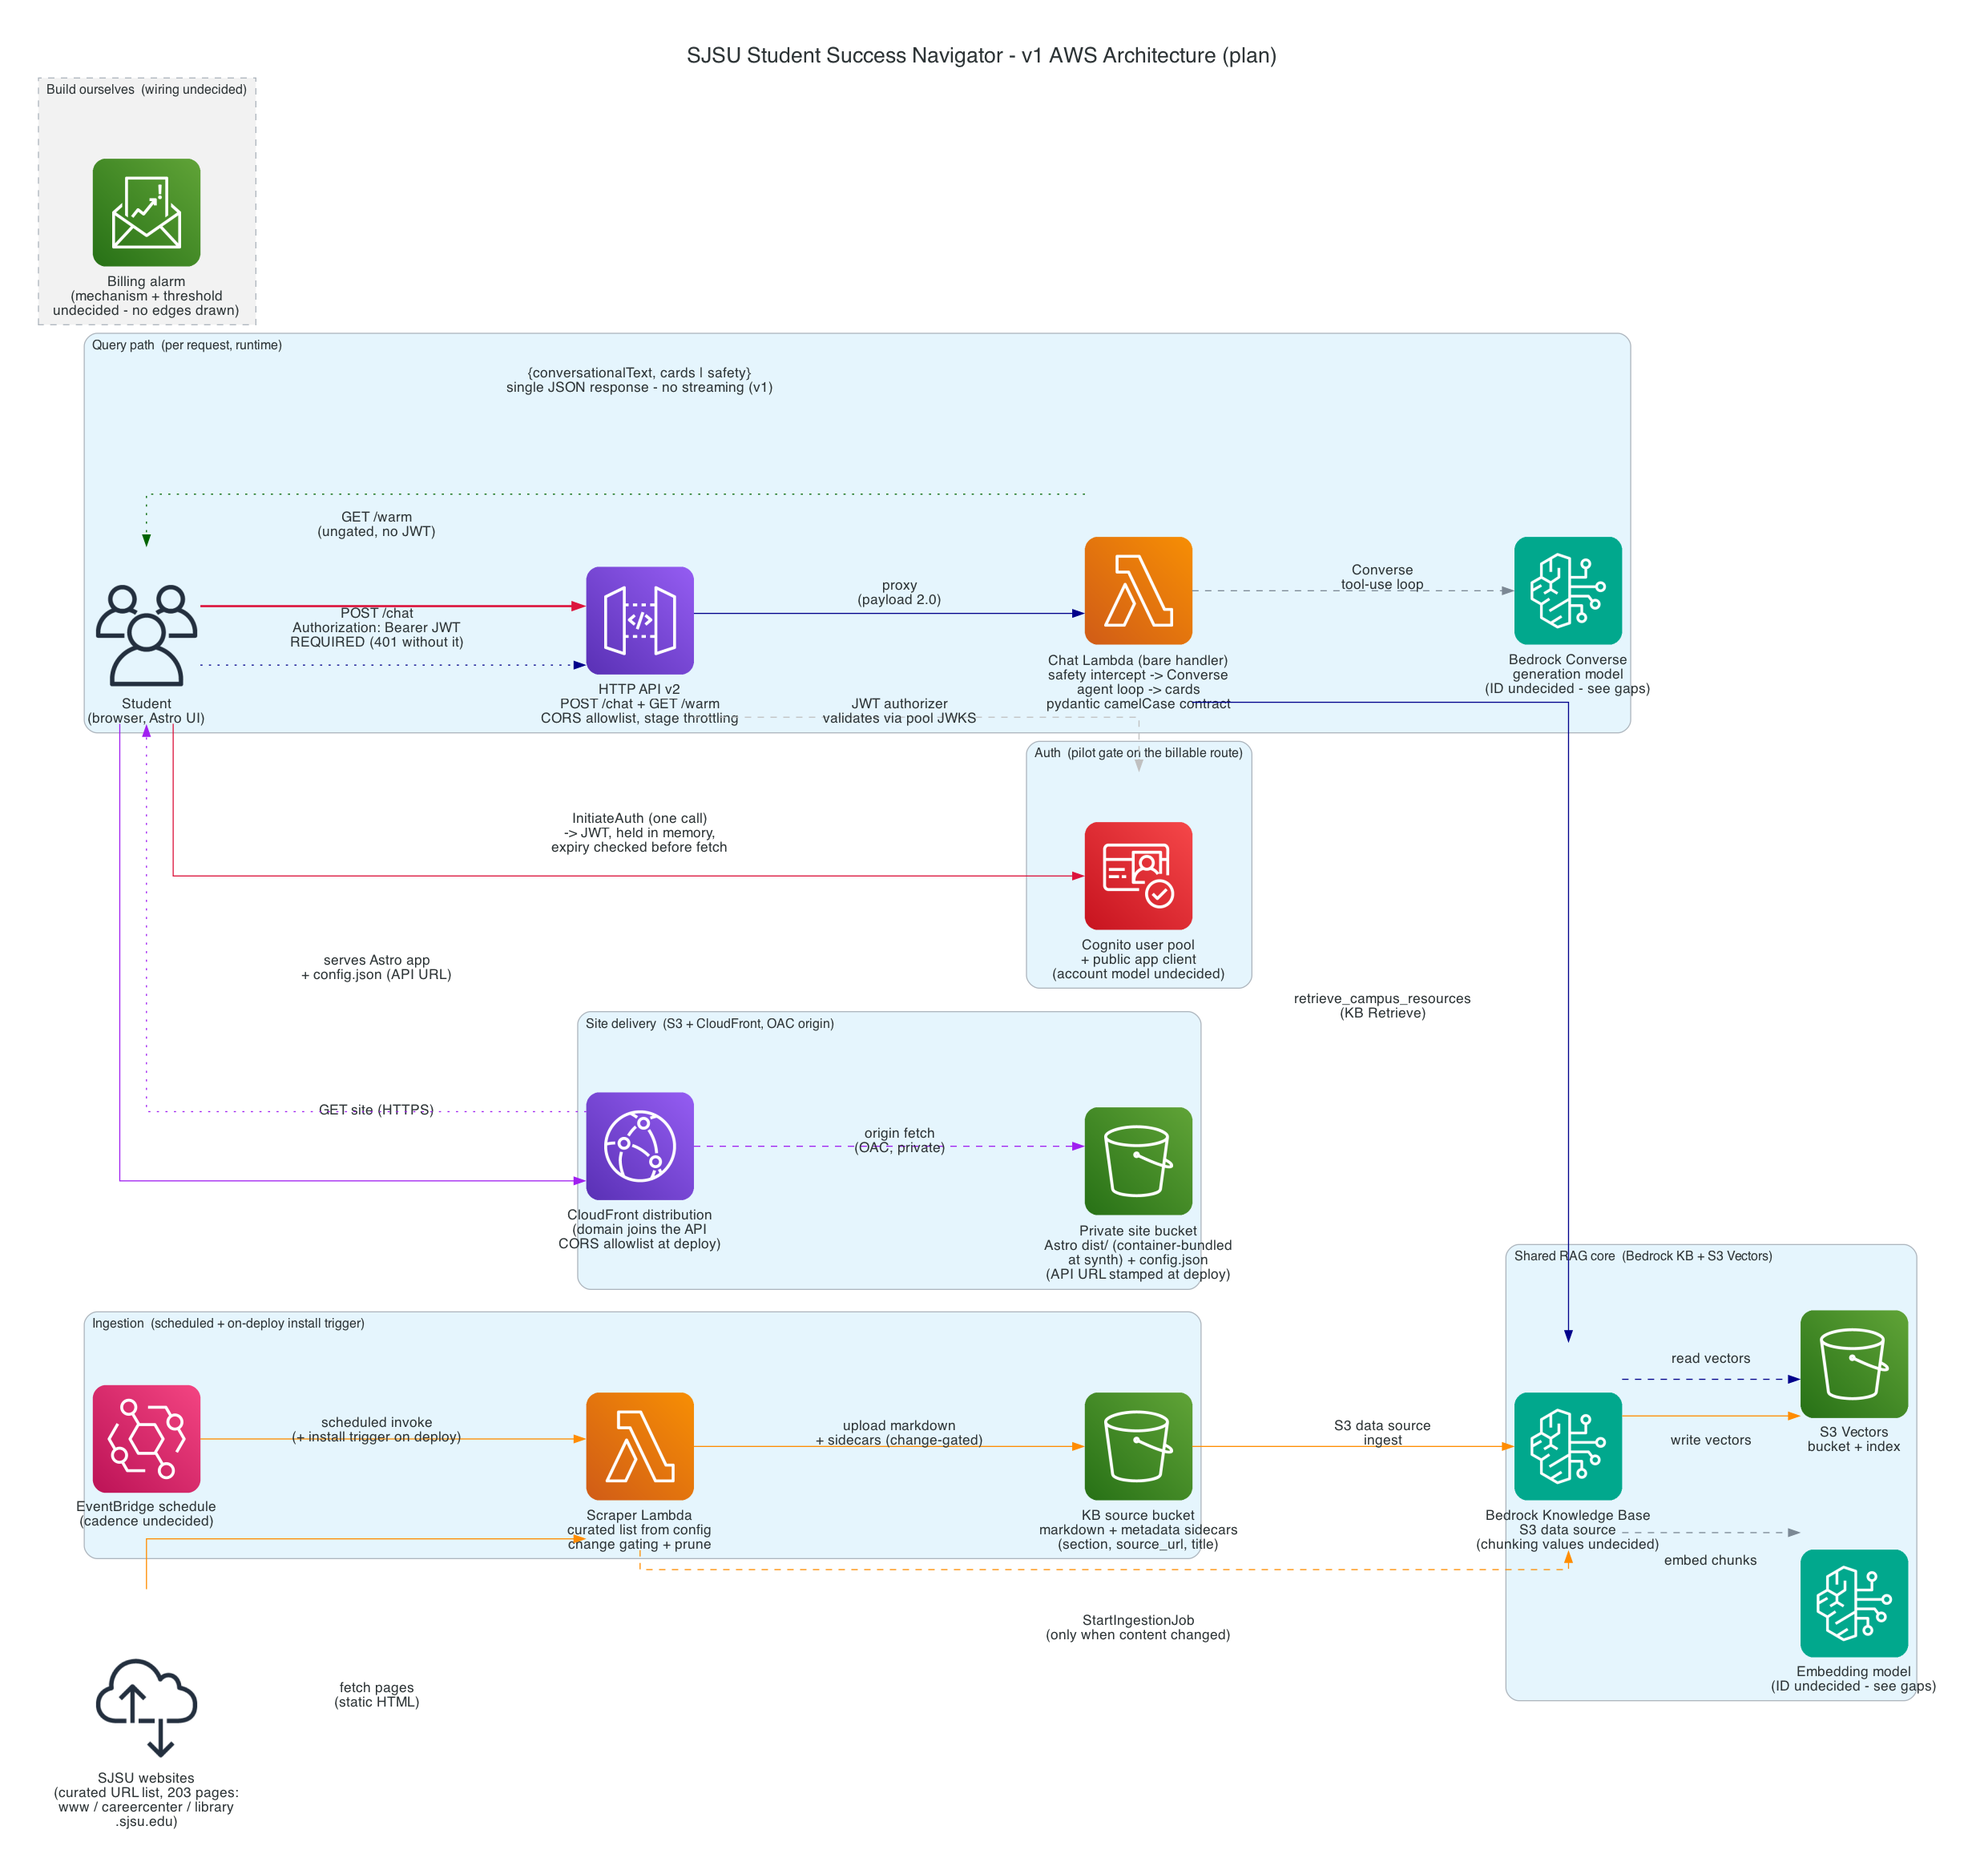
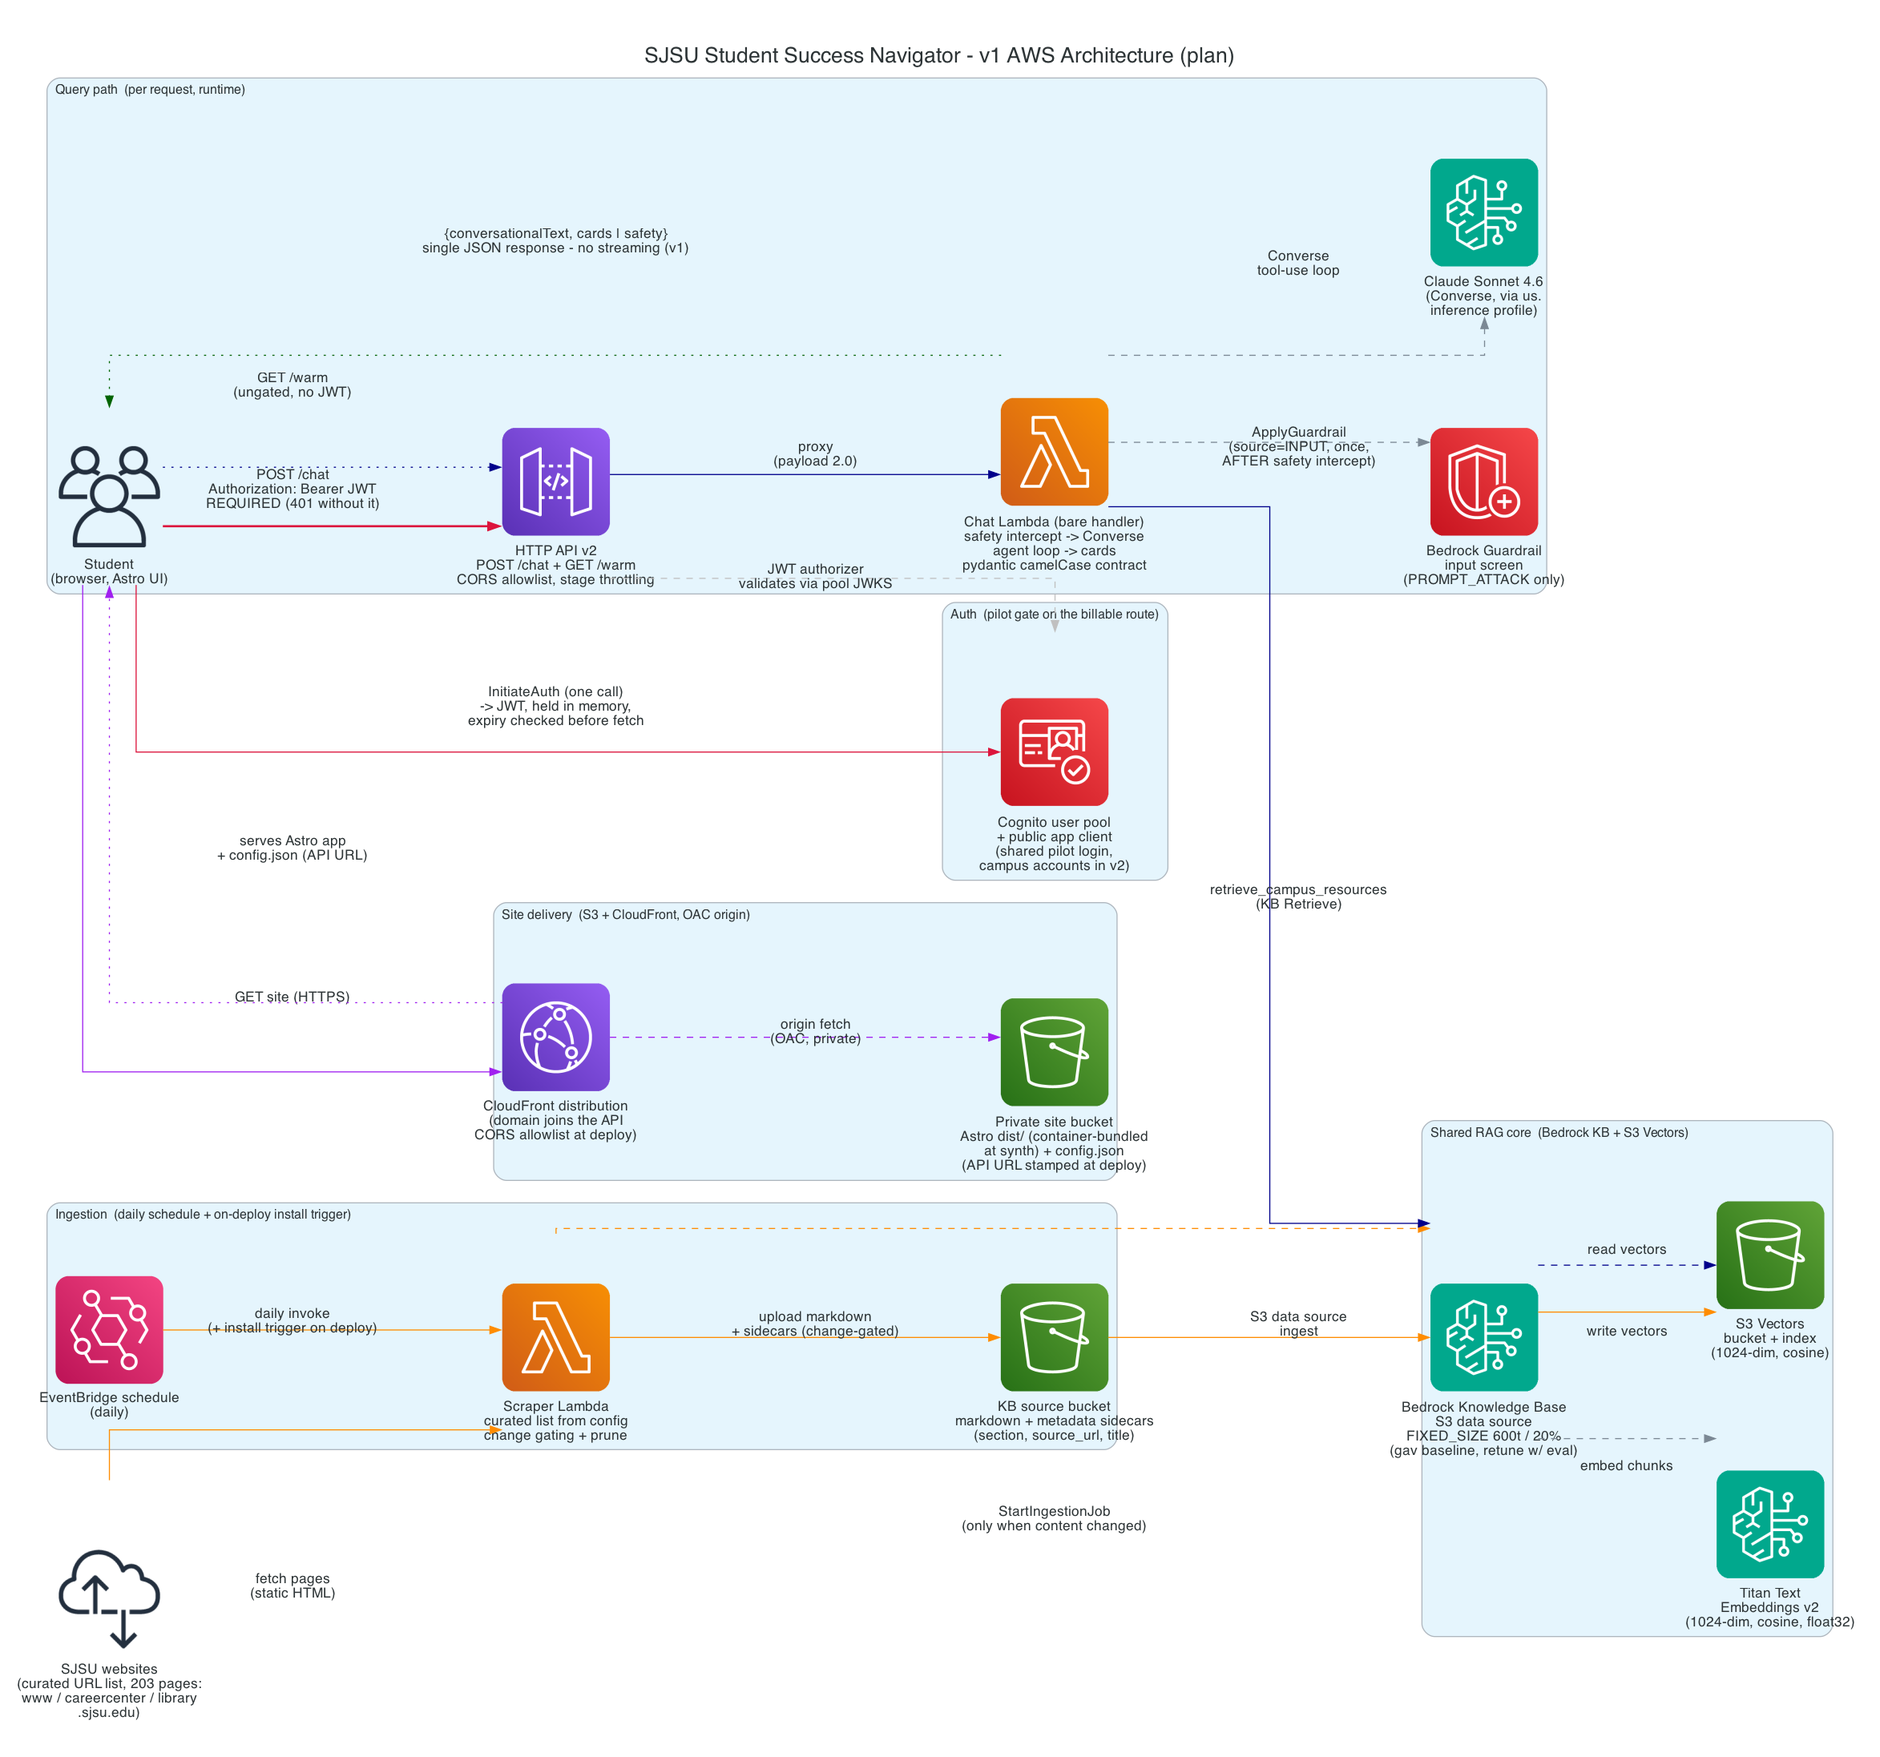
docs(plan): resolve diagram gaps with gav-referenced decisions

diff --git a/docs/architecture-v1.py b/docs/architecture-v1.py
@@ -15,53 +15,45 @@ is no code yet. It exists to make the cross-project wiring reviewable: v1 is
 assembled by pulling sections out of the gav lib CDK project and the camp
 application, so the risk sits in the seams, not the components.
 
-Decisions reflected:
+Decisions reflected (the former gaps are resolved in docs/synthesis.md under
+"Decisions (2026-08-05)", with gav lib as the reference where the plan was silent):
   - v1 is authenticated. Cognito with a single InitiateAuth call replaces Google
     OAuth; a native JWT authorizer guards POST /chat, the one billable route.
-    GET /warm stays ungated (it spends no Bedrock tokens).
+    GET /warm stays ungated (it spends no Bedrock tokens). v1 ships gav's shared
+    username/password pilot login; campus-affiliated accounts are v2.
   - The chat Lambda is a bare handler - no FastAPI, no Mangum. The camp services
     (safety intercept, Converse agent loop, card parsing) move in as files;
     pydantic aliases carry the camelCase wire contract.
+  - Generation is Claude Sonnet 4.6 on Bedrock Converse via the us. cross-region
+    inference profile; embeddings are Titan Text Embeddings v2 (1024-dim, cosine,
+    float32); chunking starts at gav's FIXED_SIZE 600 tokens / 20% overlap,
+    retuned with the eval once an account exists.
+  - Gav's single PROMPT_ATTACK input guardrail is adopted. Ordering is
+    load-bearing: the deterministic safety intercept runs first, then
+    ApplyGuardrail(source=INPUT), then the Converse loop - crisis handling can
+    never be pre-empted by a guardrail block.
   - Ingestion scrapes a curated URL list from config (203 pages in url-list.csv,
-    hosts www/careercenter/library.sjsu.edu), no recursive crawl. Metadata
-    sidecars carry section alongside source_url and title.
+    hosts www/careercenter/library.sjsu.edu) on a single DAILY EventBridge
+    schedule, no tiers, plus the on-deploy install trigger. Metadata sidecars
+    carry section alongside source_url and title. Cost-checked in build-plan.md
+    (~$0.15/month all-in at daily cadence, change-gated).
   - No response streaming in v1: one JSON response per question.
   - Frontend is static Astro on S3 behind CloudFront (OAC). CDK bundles it in a
     container at synth; config.json is stamped with the API URL at deploy time,
     and the distribution domain joins the API's CORS allowlist.
-
-GAPS - ambiguities the plan documents do not resolve. Where one of these blocks
-an edge or a label, the diagram carries "undecided" rather than a guess:
-  1. Generation model ID is pinned nowhere in this repo's docs (camp defaulted to
-     us.anthropic.claude-sonnet-4-6; no decision is recorded here). Drawn generic.
-  2. Embedding model ID and vector dimension are unnamed ("kb: s3 vectors +
-     embedding model"), and chunking values are "ours" but unchosen. Drawn generic.
-  3. Guardrail: the plan is silent on whether gav lib's PROMPT_ATTACK input
-     guardrail comes along with the pulled lambda section or is stripped. Not
-     drawn; needs a decision (gav's lambda IAM carries ApplyGuardrail).
-  4. Scraper schedule shape: gav has fast/full tiers; our docs pull "schedules"
-     with no cadence or tier decision for the 203-URL list. One schedule drawn,
-     cadence unlabeled.
-  5. Billing alarm wiring: mechanism (AWS Budgets vs CloudWatch) and threshold
-     undecided. Node drawn with no edges.
-  6. Cognito account model: synthesis says "auth to campus-affiliated users";
-     gav's template is one shared demo login. Provisioning undecided; the pool is
-     drawn, the account model is not.
-  7. Domain count: the task brief says two domains; url-list.csv contains three
-     hosts (www.sjsu.edu 177, careercenter.sjsu.edu 21, library.sjsu.edu 5).
-     Drawn from the CSV.
+  - No billing alarm in v1 (deferred to v2); stage throttling and the Cognito
+    gate are the v1 cost controls.
 """
 
 import os
 
 from diagrams import Cluster, Diagram, Edge
 from diagrams.aws.compute import Lambda
-from diagrams.aws.cost import Budgets
 from diagrams.aws.general import InternetAlt1, Users
 from diagrams.aws.integration import Eventbridge
 from diagrams.aws.ml import Bedrock
 from diagrams.aws.network import APIGateway, CloudFront
-from diagrams.aws.security import Cognito
+from diagrams.aws.security import Cognito, Shield
 from diagrams.aws.storage import S3
 
 # Write the PNG next to this file (docs/) regardless of the current working directory.
@@ -82,8 +74,8 @@ with Diagram(
         "SJSU websites\n(curated URL list, 203 pages:\nwww / careercenter / library\n.sjsu.edu)"
     )
 
-    with Cluster("Ingestion  (scheduled + on-deploy install trigger)"):
-        schedule = Eventbridge("EventBridge schedule\n(cadence undecided)")
+    with Cluster("Ingestion  (daily schedule + on-deploy install trigger)"):
+        schedule = Eventbridge("EventBridge schedule\n(daily)")
         scraper = Lambda("Scraper Lambda\ncurated list from config\nchange gating + prune")
         source_bucket = S3(
             "KB source bucket\nmarkdown + metadata sidecars\n(section, source_url, title)"
@@ -91,12 +83,16 @@ with Diagram(
 
     # The KB + vector store are the hub shared by both flows.
     with Cluster("Shared RAG core  (Bedrock KB + S3 Vectors)"):
-        kb = Bedrock("Bedrock Knowledge Base\nS3 data source\n(chunking values undecided)")
-        embed = Bedrock("Embedding model\n(ID undecided - see gaps)")
-        vectors = S3("S3 Vectors\nbucket + index")
+        kb = Bedrock(
+            "Bedrock Knowledge Base\nS3 data source\nFIXED_SIZE 600t / 20%\n(gav baseline, retune w/ eval)"
+        )
+        embed = Bedrock("Titan Text\nEmbeddings v2\n(1024-dim, cosine, float32)")
+        vectors = S3("S3 Vectors\nbucket + index\n(1024-dim, cosine)")
 
     with Cluster("Auth  (pilot gate on the billable route)"):
-        cognito = Cognito("Cognito user pool\n+ public app client\n(account model undecided)")
+        cognito = Cognito(
+            "Cognito user pool\n+ public app client\n(shared pilot login,\ncampus accounts in v2)"
+        )
 
     with Cluster("Query path  (per request, runtime)"):
         student = Users("Student\n(browser, Astro UI)")
@@ -106,7 +102,12 @@ with Diagram(
         chat_fn = Lambda(
             "Chat Lambda (bare handler)\nsafety intercept -> Converse\nagent loop -> cards\npydantic camelCase contract"
         )
-        model = Bedrock("Bedrock Converse\ngeneration model\n(ID undecided - see gaps)")
+        guardrail = Shield(
+            "Bedrock Guardrail\ninput screen\n(PROMPT_ATTACK only)"
+        )
+        model = Bedrock(
+            "Claude Sonnet 4.6\n(Converse, via us.\ninference profile)"
+        )
 
     with Cluster("Site delivery  (S3 + CloudFront, OAC origin)"):
         cdn = CloudFront(
@@ -116,14 +117,8 @@ with Diagram(
             "Private site bucket\nAstro dist/ (container-bundled\nat synth) + config.json\n(API URL stamped at deploy)"
         )
 
-    with Cluster(
-        "Build ourselves  (wiring undecided)",
-        graph_attr={"style": "dashed", "bgcolor": "gray95"},
-    ):
-        billing = Budgets("Billing alarm\n(mechanism + threshold\nundecided - no edges drawn)")
-
     # --- Ingestion flow: schedule -> scrape -> S3 markdown -> KB ingest -> embed -> vectors ---
-    schedule >> Edge(color="darkorange", label="scheduled invoke\n(+ install trigger on deploy)") >> scraper
+    schedule >> Edge(color="darkorange", label="daily invoke\n(+ install trigger on deploy)") >> scraper
     sjsu_sites >> Edge(color="darkorange", label="fetch pages\n(static HTML)") >> scraper
     scraper >> Edge(color="darkorange", label="upload markdown\n+ sidecars (change-gated)") >> source_bucket
     scraper >> Edge(color="darkorange", style="dashed", label="StartIngestionJob\n(only when content changed)") >> kb
@@ -148,6 +143,11 @@ with Diagram(
     student >> Edge(color="darkblue", style="dotted", label="GET /warm\n(ungated, no JWT)") >> api
     api >> Edge(color="gray", style="dashed", label="JWT authorizer\nvalidates via pool JWKS") >> cognito
     api >> Edge(color="darkblue", label="proxy\n(payload 2.0)") >> chat_fn
+    # Ordering is load-bearing: safety intercept (in-Lambda, deterministic) runs FIRST,
+    # then the guardrail screens the bare query ONCE, then the Converse loop starts.
+    chat_fn >> Edge(
+        style="dashed", label="ApplyGuardrail\n(source=INPUT, once,\nAFTER safety intercept)"
+    ) >> guardrail
     chat_fn >> Edge(color="darkblue", label="retrieve_campus_resources\n(KB Retrieve)") >> kb
     kb >> Edge(color="darkblue", style="dashed", label="read vectors") >> vectors
     chat_fn >> Edge(style="dashed", dir="both", label="Converse\ntool-use loop") >> model

diff --git a/docs/build-plan.md b/docs/build-plan.md
@@ -14,7 +14,7 @@ L1 property values. Nothing pre-flights those without an account.
 
 - [ ] pull gav config skeleton and synth validators, renamed with no hardcoded global names
 - [ ] pull gav kb section, repointed at our source bucket and chunking values
-- [ ] pull gav scraper shell, crawling the curated url list from config; sidecars carry `section` alongside source_url and title, or cards.py deprioritization and follow-ups degrade silently
+- [ ] pull gav scraper shell, crawling the curated url list from config on a single daily schedule (no tiers); sidecars carry `section` alongside source_url and title, or cards.py deprioritization and follow-ups degrade silently
 - [ ] pull gav lambda section: bare handler, not fastapi/mangum; keep pydantic in the deps layer, the camelCase wire contract lives in its aliases
 - [ ] pull camp agent loop, tool schemas, system prompt and services as files; main.py and the routers are replaced
 - [ ] pull camp card parsing and the pre-model safety intercept as-is
@@ -28,7 +28,6 @@ distribution domain into its cors allowlist. Not frozen after its commit.
 
 ## Build ourselves
 
-- [ ] billing alarm
 - [ ] adapt an eval harness from camp's 9-question cli and gav's harness (needs account)
 - [ ] retune retrieve_min_score; 0.35 was tuned against a differently shaped corpus (needs account)
 - [ ] update the team repo's audit docs, which still say mangum and fan-out scraper
@@ -36,4 +35,15 @@ distribution domain into its cors allowlist. Not frozen after its commit.
 ## Open
 
 - [ ] astro build: bundle at deploy, or commit dist/
-- [ ] scraper ceiling: gav does 19 pages in 25-67s at 512MB, so one Lambda at a 15-min timeout caps around a few hundred pages. Planning bullet 1 tells us if the curated list fits
+
+## Resolved (2026-08-05)
+
+- scraper cadence: DAILY, single schedule, no tiers. Cheap by calculation: 203
+  pages scale gav's measured 19-pages-in-25-67s to ~4.5-12 min at 512MB
+  (~$0.12/mo of Lambda), a full corpus re-embed is ~190K Titan tokens (<$0.01),
+  and change gating means unchanged days pay only the Lambda run. Fits the
+  15-min timeout, but the top of the range is close: log run duration from the
+  first live run.
+- scraper ceiling: 203 pages fits one Lambda (see above); revisit only if runs
+  approach the cap.
+- billing alarm: deferred to v2 (see aws-port-draft.md).

diff --git a/docs/synthesis.md b/docs/synthesis.md
@@ -48,6 +48,32 @@ flux: validate against our pinned version.
 - also pull: `GET /warm` pre-warm route; install trigger that makes first
   ingestion happen during `cdk deploy`
 
+## Decisions (2026-08-05, resolving the diagram gaps)
+
+Gav lib is the reference where the plan was silent; its values verified against
+its config.yaml and stack.
+
+- generation model: `us.anthropic.claude-sonnet-4-6` (gav's; camp used the
+  same). Cross-region inference profile, so IAM needs profile ARN + underlying
+  foundation-model ARNs.
+- embedding model: `amazon.titan-embed-text-v2:0`, 1024-dim, cosine, float32
+  (gav's exact vector-store shape).
+- chunking: gav's FIXED_SIZE 600 tokens / 20% overlap as the starting baseline;
+  retune with the eval once an account exists. Chunking is immutable, so a
+  change is a data-source replacement (gav folds chunk config into the data
+  source name; keep that trick).
+- guardrail: ADOPT gav's single PROMPT_ATTACK input screen
+  (ApplyGuardrail source=INPUT). Ordering is load-bearing: our deterministic
+  safety intercept runs FIRST, then the guardrail, then the loop, so crisis
+  handling can never be pre-empted by a guardrail block.
+- scraper cadence: daily, single schedule, no tiers. Cost-checked in
+  build-plan.md (~$0.15/mo all-in).
+- billing alarm: v2.
+- cognito: v1 ships gav's shared username/password pilot login exactly;
+  campus-affiliated accounts are v2.
+- crawl list: url-list.csv is authoritative over the brief; three hosts
+  (www / careercenter / library .sjsu.edu), 203 pages.
+
 ## Open
 
 - Bedrock model-access opt-in state of the target AWS account. Check before the

diff --git a/docs/aws-port-draft.md b/docs/aws-port-draft.md
@@ -35,3 +35,6 @@
 - eval harness against Student Affairs' 5-10 query test set (needs an account)
 - recursive crawl (v1 ships a curated URL list)
 - response streaming (HTTP API cannot stream; needs REST API or Function URL)
+- billing alarm (v1 relies on stage throttling + the Cognito gate as cost caps)
+- campus-affiliated Cognito accounts (v1 ships gav's single shared
+  username/password pilot login)
